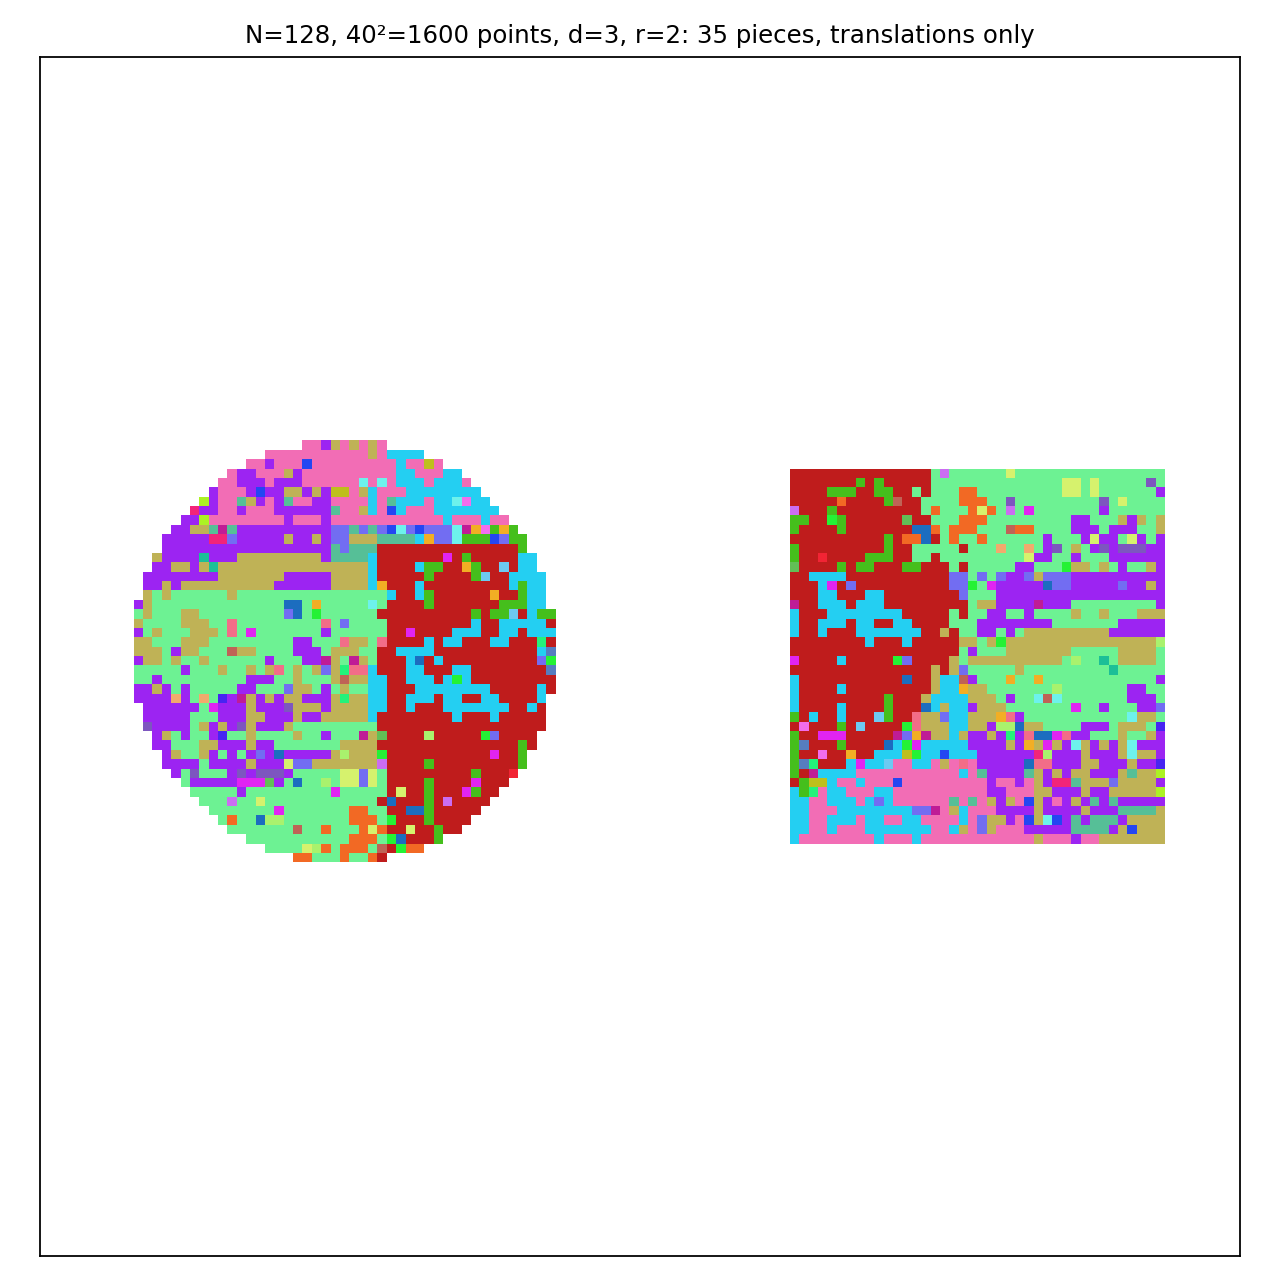
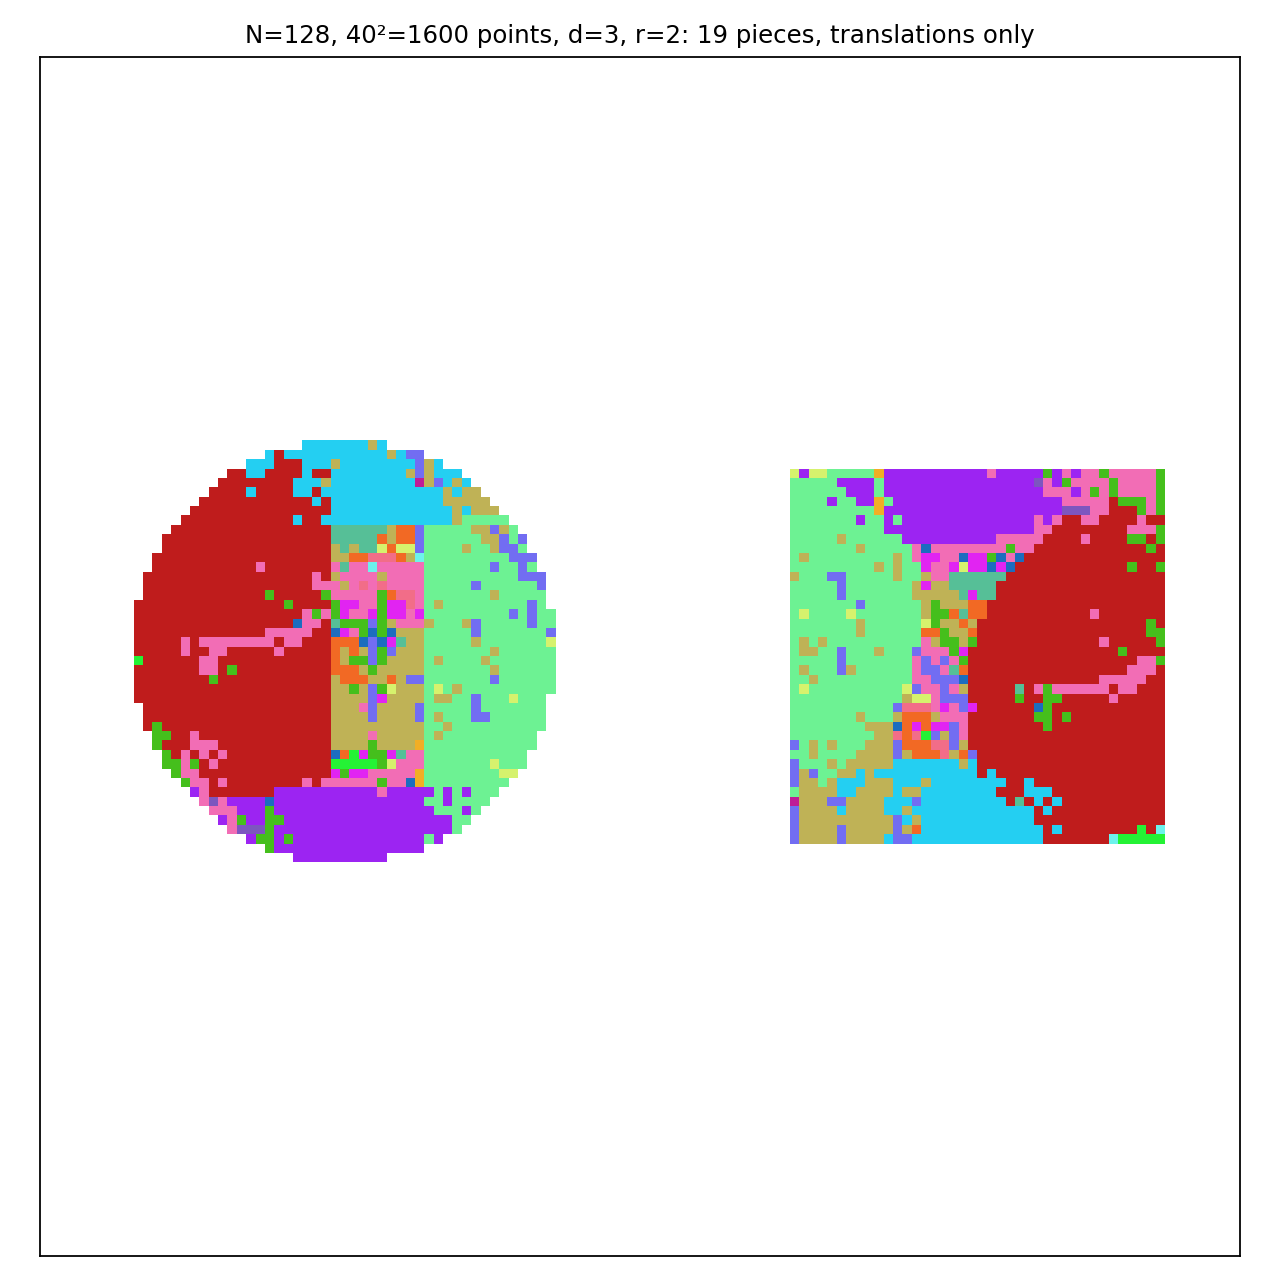
Add min-cost matching (19 pieces vs 35) and sliding-pieces animation
min_cost_matching uses scipy's sparse LAPJVsp with cost 1 + ||n||_1 so the
bijection concentrates on the cheapest displacements; now the CLI default.
anim.py renders a GIF of pieces sliding along their translation vectors
(shortest torus representative, smoothstep easing). Assets refreshed.

Changed region(s): [[0.5938, 0.3438, 0.9375, 0.6562], [0.0938, 0.3438, 0.4375, 0.6875]]

diff --git a/src/circle_squaring/matching.py b/src/circle_squaring/matching.py
@@ -9,6 +9,11 @@ a finite r suffices in the continuum with probability 1.
 
 Matchings found at radius r are kept and extended at radius r + 1, so the
 final bijection is biased toward short displacements and few pieces.
+
+`min_cost_matching` goes further: among all perfect matchings at the smallest
+workable radius, it finds one minimizing the total displacement cost
+sum(1 + ||n||_1), which concentrates the bijection on the cheapest few
+displacements and typically cuts the piece count well below Hopcroft-Karp's.
 """
 
 from __future__ import annotations
@@ -101,6 +106,53 @@ def bounded_matching(
         match_l, match_r = hopcroft_karp(adj, len(b_points), match_l, match_r)
         if all(v != -1 for v in match_l):
             return match_l, r, table
+    raise RuntimeError(
+        f"no perfect matching up to radius {r_max}; "
+        "try larger r_max, more vectors, or a different seed"
+    )
+
+
+def min_cost_matching(
+    a_points: list[Vec],
+    b_points: list[Vec],
+    vectors: list[Vec],
+    n: int,
+    r_max: int = 8,
+) -> tuple[list[int], int, dict[Vec, tuple[int, ...]]]:
+    """Minimum-cost perfect matching A -> B; same interface as bounded_matching.
+
+    Edge cost is 1 + ||n||_1 for the displacement's canonical label, so the
+    optimum reuses the cheapest displacements as much as possible. Solved with
+    scipy's sparse LAPJVsp; the radius escalates until a perfect matching
+    exists, then one more optimization pass runs at that radius.
+    """
+    import numpy as np
+    from scipy.sparse import csr_matrix
+    from scipy.sparse.csgraph import min_weight_full_bipartite_matching
+
+    b_index = {b: i for i, b in enumerate(b_points)}
+    for r in range(1, r_max + 1):
+        table = displacement_table(vectors, r, n)
+        rows, cols, costs = [], [], []
+        for i, (ax, ay) in enumerate(a_points):
+            for (dx, dy), n_vec in table.items():
+                j = b_index.get(((ax + dx) % n, (ay + dy) % n))
+                if j is not None:
+                    rows.append(i)
+                    cols.append(j)
+                    costs.append(1 + sum(abs(c) for c in n_vec))
+        graph = csr_matrix(
+            (np.array(costs), (np.array(rows), np.array(cols))),
+            shape=(len(a_points), len(b_points)),
+        )
+        try:
+            row_ind, col_ind = min_weight_full_bipartite_matching(graph)
+        except ValueError:  # no perfect matching at this radius
+            continue
+        match_l = [-1] * len(a_points)
+        for i, j in zip(row_ind, col_ind):
+            match_l[i] = int(j)
+        return match_l, r, table
     raise RuntimeError(
         f"no perfect matching up to radius {r_max}; "
         "try larger r_max, more vectors, or a different seed"

diff --git a/src/circle_squaring/__main__.py b/src/circle_squaring/__main__.py
@@ -10,8 +10,9 @@ import json
 import time
 from pathlib import Path
 
+from .anim import render_animation
 from .graph import random_vectors
-from .matching import bounded_matching
+from .matching import bounded_matching, min_cost_matching
 from .pieces import extract_pieces, verify
 from .shapes import disk_and_square
 from .viz import render
@@ -24,6 +25,16 @@ def main() -> None:
     parser.add_argument("--d", type=int, default=3, help="number of translation vectors")
     parser.add_argument("--seed", type=int, default=0, help="RNG seed for the vectors")
     parser.add_argument("--r-max", type=int, default=8, help="max matching radius in G_d")
+    parser.add_argument(
+        "--matcher",
+        choices=["min-cost", "hopcroft-karp"],
+        default="min-cost",
+        help="min-cost minimizes total displacement (fewest pieces)",
+    )
+    parser.add_argument(
+        "--no-gif", action="store_true", help="skip the sliding-pieces animation"
+    )
+    parser.add_argument("--frames", type=int, default=40, help="animation frames")
     parser.add_argument("--out", type=str, default="out", help="output directory")
     args = parser.parse_args()
 
@@ -33,9 +44,8 @@ def main() -> None:
     t0 = time.time()
     disk, square = disk_and_square(args.n, args.side)
     vectors = random_vectors(args.d, args.n, args.seed)
-    match_l, radius, table = bounded_matching(
-        disk, square, vectors, args.n, r_max=args.r_max
-    )
+    match = min_cost_matching if args.matcher == "min-cost" else bounded_matching
+    match_l, radius, table = match(disk, square, vectors, args.n, r_max=args.r_max)
     pieces = extract_pieces(disk, square, match_l, table, args.n)
     verify(pieces, disk, square, args.n)
     elapsed = time.time() - t0
@@ -46,6 +56,7 @@ def main() -> None:
         "points_per_shape": args.side**2,
         "d": args.d,
         "seed": args.seed,
+        "matcher": args.matcher,
         "vectors": vectors,
         "radius": radius,
         "num_pieces": len(pieces),
@@ -59,9 +70,13 @@ def main() -> None:
         f"r={radius}: {len(pieces)} pieces, translations only"
     )
     render(pieces, args.n, str(out_dir / "pieces.png"), title=title)
+    written = ["pieces.png", "stats.json"]
+    if not args.no_gif:
+        render_animation(pieces, args.n, str(out_dir / "animation.gif"), frames=args.frames)
+        written.append("animation.gif")
 
     print(f"verified equidecomposition: {len(pieces)} pieces at radius {radius}")
-    print(f"wrote {out_dir / 'pieces.png'} and {out_dir / 'stats.json'} in {elapsed:.1f}s")
+    print(f"wrote {', '.join(str(out_dir / f) for f in written)} in {elapsed:.1f}s")
 
 
 if __name__ == "__main__":

diff --git a/src/circle_squaring/anim.py b/src/circle_squaring/anim.py
@@ -1,0 +1,64 @@
+"""Animate the equidecomposition: pieces slide from the disk to the square.
+
+Each piece travels in a straight line along the shortest torus representative
+of its displacement, with smoothstep easing and hold frames at both ends.
+Mid-flight overlaps are expected (the pieces only tile at t = 0 and t = 1).
+"""
+
+from __future__ import annotations
+
+import numpy as np
+from PIL import Image
+
+from .pieces import Piece
+from .viz import piece_colors
+
+
+def _smoothstep(t: float) -> float:
+    return t * t * (3 - 2 * t)
+
+
+def _centered(delta: int, n: int) -> int:
+    """Representative of delta mod n in (-n/2, n/2], for short visual travel."""
+    return delta - n if delta > n // 2 else delta
+
+
+def render_animation(
+    pieces: list[Piece],
+    n: int,
+    out_path: str,
+    frames: int = 40,
+    hold: int = 10,
+    scale: int = 4,
+    ms_per_frame: int = 50,
+) -> None:
+    colors = [
+        tuple(int(255 * c) for c in color) for color in piece_colors(len(pieces))
+    ]
+    moves = [
+        (piece, (_centered(piece.delta[0], n), _centered(piece.delta[1], n)))
+        for piece in pieces
+    ]
+
+    images = []
+    ts = [0.0] * hold + [i / (frames - 1) for i in range(frames)] + [1.0] * hold
+    for t in ts:
+        s = _smoothstep(t)
+        img = np.full((n, n, 3), 255, dtype=np.uint8)
+        # Large pieces first so small ones stay visible during overlaps.
+        for (piece, (mx, my)), color in zip(moves, colors):
+            ox = int(round(s * mx))
+            oy = int(round(s * my))
+            for x, y in piece.points:
+                img[(y + oy) % n, (x + ox) % n] = color
+        img = np.flipud(img)  # y up, matching the PNG renderer
+        frame = Image.fromarray(img).resize((n * scale, n * scale), Image.NEAREST)
+        images.append(frame)
+
+    images[0].save(
+        out_path,
+        save_all=True,
+        append_images=images[1:],
+        duration=ms_per_frame,
+        loop=0,
+    )

diff --git a/tests/test_equidecomposition.py b/tests/test_equidecomposition.py
@@ -44,6 +44,42 @@ def test_full_pipeline_small():
     assert all(max(abs(c) for c in p.label) <= radius for p in pieces)
 
 
+def test_min_cost_matching_verifies_and_uses_fewer_or_equal_pieces():
+    from circle_squaring import min_cost_matching
+
+    n, side = 64, 16
+    disk, square = disk_and_square(n, side)
+    vectors = random_vectors(3, n, seed=0)
+
+    hk_match, _, hk_table = bounded_matching(disk, square, vectors, n)
+    hk_pieces = extract_pieces(disk, square, hk_match, hk_table, n)
+
+    mc_match, radius, mc_table = min_cost_matching(disk, square, vectors, n)
+    assert sorted(mc_match) == list(range(side * side))
+    mc_pieces = extract_pieces(disk, square, mc_match, mc_table, n)
+    verify(mc_pieces, disk, square, n)
+    assert len(mc_pieces) <= len(hk_pieces)
+    assert all(max(abs(c) for c in p.label) <= radius for p in mc_pieces)
+
+
+def test_animation_writes_gif(tmp_path=None):
+    import tempfile
+    from pathlib import Path
+
+    from circle_squaring import min_cost_matching, render_animation
+
+    n, side = 64, 12
+    disk, square = disk_and_square(n, side)
+    vectors = random_vectors(3, n, seed=0)
+    match_l, _, table = min_cost_matching(disk, square, vectors, n)
+    pieces = extract_pieces(disk, square, match_l, table, n)
+    out_dir = Path(tmp_path) if tmp_path else Path(tempfile.mkdtemp())
+    gif = out_dir / "anim.gif"
+    render_animation(pieces, n, str(gif), frames=6, hold=2, scale=2)
+    assert gif.stat().st_size > 0
+    assert gif.read_bytes()[:6] in (b"GIF87a", b"GIF89a")
+
+
 def test_seed_changes_vectors_but_pipeline_still_verifies():
     n, side = 64, 16
     disk, square = disk_and_square(n, side)

diff --git a/src/circle_squaring/__init__.py b/src/circle_squaring/__init__.py
@@ -1,7 +1,8 @@
 """Discrete analogue of Tarski's circle squaring via bounded-distance matching."""
 
+from .anim import render_animation
 from .graph import displacement_table, random_vectors
-from .matching import bounded_matching, hopcroft_karp
+from .matching import bounded_matching, hopcroft_karp, min_cost_matching
 from .pieces import Piece, extract_pieces, verify
 from .shapes import disk_and_square
 
@@ -12,6 +13,8 @@ __all__ = [
     "displacement_table",
     "extract_pieces",
     "hopcroft_karp",
+    "min_cost_matching",
     "random_vectors",
+    "render_animation",
     "verify",
 ]

diff --git a/README.md b/README.md
@@ -12,8 +12,13 @@ discrete torus, where every step is finite and checkable, and draws the pieces.
 
 ![example](assets/example.png)
 
-*1600 points, 35 pieces, every piece moved by a single translation. Same color =
+*1600 points, 19 pieces, every piece moved by a single translation. Same color =
 same piece.*
+
+![animation](assets/animation.gif)
+
+*The same decomposition sliding: each piece travels along its (single)
+translation vector.*
 
 ## What it does
 
@@ -27,14 +32,19 @@ Working on the discrete torus `Z_N × Z_N`:
    that only generate a sublattice are rejected (rank 2 mod every prime dividing `N`)
    — the discrete analogue of the paper's "no rational dependencies" property (2.11).
 3. **Bounded matching** (`matching.py`) — a perfect matching `A → B` along `G_d`
-   edges via Hopcroft–Karp, escalating the radius `r = 1, 2, …` and extending the
-   matching at each stage, so displacements stay short. This replaces the paper's
-   bounded integer-valued flow (their Lemma 2.16 reduction); the fact that a small
-   `r` works is the discrete shadow of Laczkovich's discrepancy bounds.
+   edges. Two solvers: Hopcroft–Karp with escalating radius `r = 1, 2, …`
+   (extending the matching at each stage), and the default **min-cost** matching
+   (scipy's sparse LAPJVsp) minimizing total `1 + ‖n‖₁`, which concentrates the
+   bijection on the cheapest displacements — 19 pieces vs. Hopcroft–Karp's 35 on
+   the default instance. Either replaces the paper's bounded integer-valued flow
+   (their Lemma 2.16 reduction); the fact that a small `r` works is the discrete
+   shadow of Laczkovich's discrepancy bounds.
 4. **Pieces** (`pieces.py`) — matched pairs grouped by displacement: each piece is
    translated by a single vector `Σ nᵢxᵢ`. `verify()` checks the pieces partition
    the disk and their translates partition the square exactly.
-5. **Render** (`viz.py`) — both shapes colored by piece.
+5. **Render** (`viz.py`, `anim.py`) — both shapes colored by piece, plus a GIF of
+   the pieces sliding along their translation vectors (smoothstep easing, shortest
+   torus representative of each displacement).
 
 ## Usage
 
@@ -42,8 +52,10 @@ Working on the discrete torus `Z_N × Z_N`:
 PYTHONPATH=src python3 -m circle_squaring --n 128 --side 40 --d 3 --seed 0 --out out
 ```
 
-Outputs `out/pieces.png` and `out/stats.json`. Typical run: 1600 points squared
-into a square in ~0.05 s with ~35 pieces at radius 2.
+Outputs `out/pieces.png`, `out/animation.gif`, and `out/stats.json`. Typical run:
+1600 points squared in ~0.1 s, 19 pieces at radius 2 with the default min-cost
+matcher (`--matcher hopcroft-karp` for the flow-style escalating matcher,
+`--no-gif` to skip the animation).
 
 Tests:
 
@@ -51,7 +63,7 @@ Tests:
 python3 tests/test_equidecomposition.py    # or: pytest tests/
 ```
 
-Requires Python ≥ 3.10, numpy, matplotlib.
+Requires Python ≥ 3.10, numpy, scipy, matplotlib, pillow.
 
 ## What this is *not*
 
@@ -78,7 +90,7 @@ grouping it by displacement *is* the equidecomposition.
 ## Layout
 
 ```
-src/circle_squaring/   shapes, graph, matching, pieces, viz, CLI
+src/circle_squaring/   shapes, graph, matching, pieces, viz, anim, CLI
 tests/                 pipeline and unit tests (plain python or pytest)
 docs/paper-notes.md    proof walkthrough of arXiv:2202.01412
 assets/example.png     committed example render
